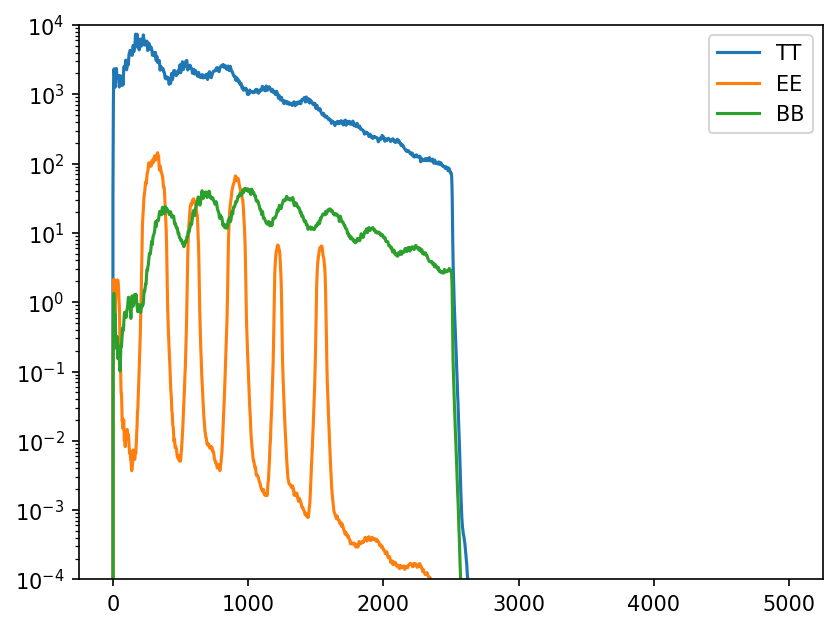
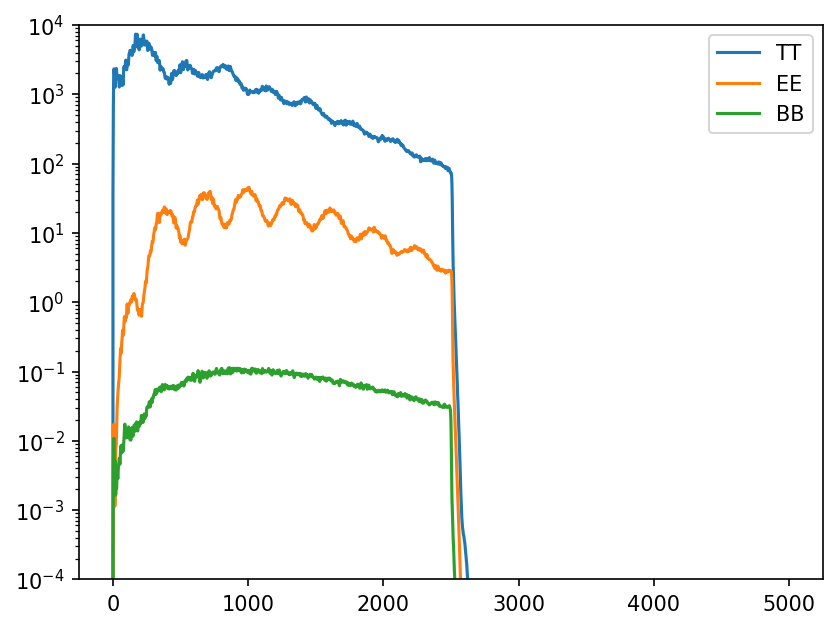
split up pixell_sim_and_power_spectrum into two files, deleted old bad plotting file, and fixed TE instead of BB error

Changed region(s): [[0.1241, 0.2417, 0.4964, 0.8156], [0.4654, 0.3927, 0.5585, 0.9364], [0.4033, 0.8156, 0.4654, 0.876]]

diff --git a/pixell_sim_and_power_spectrum.py b/pixell_sim_and_power_spectrum.py
@@ -11,12 +11,27 @@ import matplotlib.pyplot as plt
 import warnings
 warnings.filterwarnings("ignore")
 
+from plot_power_spectrum import plot_ps
+
 # get power spectra .txt
 ps_url = "https://irsa.ipac.caltech.edu/data/Planck/release_3/ancillary-data/cosmoparams/COM_PowerSpect_CMB-base-plikHM-TTTEEE-lowl-lowE-lensing-minimum-theory_R3.01.txt"
 urllib.request.urlretrieve(ps_url, "ps.txt")
 
-# set up randomly generated alm using power spectrum from the txt file
-ps = powspec.read_spectrum("ps.txt", inds=True, scale=True, expand='diag')
+raw = np.loadtxt("ps.txt").T  # shape (ncols, nrows)
+# columns are: ell, TT, TE, EE, BB, PP
+ell = raw[0].astype(int)
+lmax_file = ell[-1]
+
+ps = np.zeros((3, 3, lmax_file + 1))
+
+# scale factor: 2pi / l(l+1), same as what read_spectrum does with scale=True
+scale = np.zeros(lmax_file + 1)
+scale[ell] = 2 * np.pi / (ell * (ell + 1))
+
+ps[0, 0, ell] = raw[1] * scale[ell]  # TT
+ps[1, 1, ell] = raw[3] * scale[ell]  # EE
+ps[2, 2, ell] = raw[4] * scale[ell]  # BB
+
 # just checked, uses np seeds under hood, 67 is a valid seed!!!  Hooray!!!
 gen_seed = 67
 lmax = 5000
@@ -46,76 +61,6 @@ for i in range(3):
     print(f"Saved my_plot_{stokes[i]}.png")
 '''
 
-# works for input of imap xor alms
-def plot_power_spectrum(imap=None, alms=None, name=None):
-    '''
-    given an imap xor alms, saves a png of the power spectrum.
-
-    imap: if given an imap of shape (3, _, _), apodizes, calculates cl, l, and w2, and then plots the 
-    power specturm
-
-    alms: if given alms of shape (3, _), calculates cl and l and then plots the power spectrum
-
-    if neither imap nor alms is inputted, prints error message.  if both imap and alms is inputted, 
-    prints different error message.
-
-    returns nothing, but saves plots to png
-    '''
-    if (imap is not None and alms is not None):
-        print("one of either imap or alms must be None, can't input both")
-    
-    # imap given
-    elif(imap is not None):
-        # apodize
-        tapered_map = imap.copy()
-        apod_width = max(5, shape[1] // 8)
-        taper_mask = enmap.apod(enmap.ones(imap[0].shape, imap[0].wcs), width=apod_width)
-
-        # w2 calculation taken DIRECTLY from spherical harmonics notebook this time.
-        w2 = np.sum(taper_mask.pixsizemap() * taper_mask**2) / (4*np.pi)
-        for i in range(3):
-            tapered_map[i] = taper_mask * imap[i]
-
-        calc_alms = curvedsky.map2alm(tapered_map, lmax=lmax)
-        cl = curvedsky.alm2cl(calc_alms) / w2
-        l = np.arange(cl.shape[1])
-
-        # plot
-        for i in range(3):
-            plt.semilogy(l, cl[i] * l *(l+1) / 2 / np.pi, label=['TT', 'EE', 'BB'][i])
-        plt.ylim(1e-4, 1e4)
-        plt.legend()
-        
-        if name is None:
-            plt.savefig("power_spectra.png", dpi=150, bbox_inches="tight")
-        else:
-            plt.savefig(name + ".png", dpi=150, bbox_inches="tight")
-        plt.close()
-    
-    # alms given
-    elif(alms is not None):
-        cl = curvedsky.alm2cl(alms)
-        l = np.arange(cl.shape[1])
-
-        # plot
-        for i in range(3):
-            plt.semilogy(l, cl[i] * l *(l+1) / 2 / np.pi, label=['TT', 'EE', 'BB'][i])
-        plt.ylim(1e-4, 1e4)
-        plt.legend()
-
-        if name is None:
-            plt.savefig("power_spectra.png", dpi=150, bbox_inches="tight")
-        else:
-            plt.savefig(name + ".png", dpi=150, bbox_inches="tight")
-        plt.close()
-
-    else:
-        print("one of either imap or alms must be inputted, can't leave both blank")
-
 # if everything works, these two should be the same
-plot_power_spectrum(imap=gen_map, name="power_spectrum_from_map")
-plot_power_spectrum(alms=gen_alms, name="power_spectrum_directly_from_alm")
-
-
-
-# note to self-- what frequency am I seeing here with the CMB map?
+plot_ps(imap=gen_map, name="power_spectrum_from_map", lmax=5000)
+plot_ps(alms=gen_alms, name="power_spectrum_directly_from_alm", lmax=5000)

diff --git a/plot_power_spectrum.py b/plot_power_spectrum.py
@@ -1,0 +1,67 @@
+# file for plotting power spectra
+
+# imports
+import numpy as np
+from pixell import enmap, reproject, utils, curvedsky, powspec, enplot
+import matplotlib.pyplot as plt
+import warnings
+warnings.filterwarnings("ignore")
+
+def plot_ps(imap=None, alms=None, name="power_spectra", lmax=5000):
+    '''
+    given an imap xor alms, saves a png of the power spectrum.
+
+    imap: if given an imap of shape (3, _, _), apodizes, calculates cl, l, and w2, and then plots the 
+    power specturm
+
+    alms: if given alms of shape (3, _), calculates cl and l and then plots the power spectrum
+
+    if neither imap nor alms is inputted, prints error message.  if both imap and alms is inputted, 
+    prints different error message.
+
+    returns nothing, but saves plots to png
+    '''
+    if (imap is not None and alms is not None):
+        print("one of either imap or alms must be None, can't input both")
+    
+    # imap given
+    elif(imap is not None):
+        # apodize
+        tapered_map = imap.copy()
+        apod_width = max(5, imap[0].shape[1] // 8)
+        taper_mask = enmap.apod(enmap.ones(imap[0].shape, imap[0].wcs), width=apod_width)
+
+        # w2 calculation taken DIRECTLY from spherical harmonics notebook this time.
+        w2 = np.sum(taper_mask.pixsizemap() * taper_mask**2) / (4*np.pi)
+        for i in range(3):
+            tapered_map[i] = taper_mask * imap[i]
+
+        calc_alms = curvedsky.map2alm(tapered_map, lmax=lmax, spin=[0, 2])
+        cl = curvedsky.alm2cl(calc_alms) / w2
+        l = np.arange(cl.shape[1])
+
+        # plot
+        for i in range(3):
+            plt.semilogy(l, cl[i] * l *(l+1) / 2 / np.pi, label=['TT', 'EE', 'BB'][i])
+        plt.ylim(1e-4, 1e4)
+        plt.legend()
+    
+        plt.savefig(name + ".png", dpi=150, bbox_inches="tight")
+        plt.close()
+    
+    # alms given
+    elif(alms is not None):
+        cl = curvedsky.alm2cl(alms)
+        l = np.arange(cl.shape[1])
+
+        # plot
+        for i in range(3):
+            plt.semilogy(l, cl[i] * l *(l+1) / 2 / np.pi, label=['TT', 'EE', 'BB'][i])
+        plt.ylim(1e-4, 1e4)
+        plt.legend()
+
+        plt.savefig(name + ".png", dpi=150, bbox_inches="tight")
+        plt.close()
+
+    else:
+        print("one of either imap or alms must be inputted, can't leave both blank")